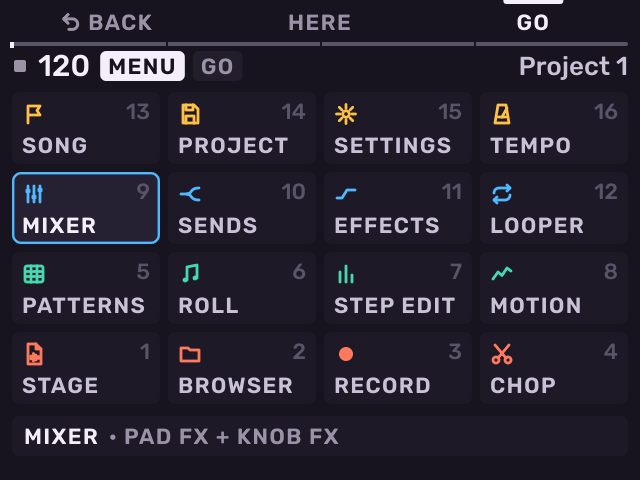
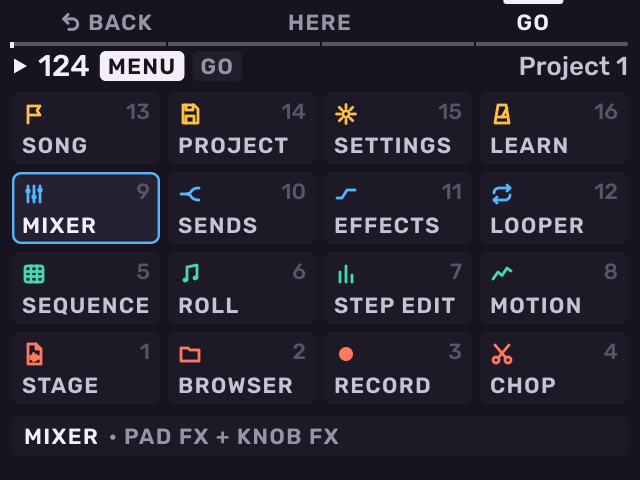
fix(melodee): the MENU's pad 5 reads SEQUENCE: SEQUENCES was wider than the tile's label and was cut, and the page previews failed on it

diff --git a/tests/melodee.cpp b/tests/melodee.cpp
@@ -2458,7 +2458,7 @@ void button_remap() {
         CHECK(encoder_tick(e, 2000 + menu_hold_ms) && !encoder_tick(e, 9000)); // held: the MENU, once
         CHECK(!encoder_release(e) && !encoder_release(e)); // its release is no tap
         CHECK(menu_tile_of(PageId::Tracks) == 8 && menu_tile_of(PageId::Scenes) == 4 && menu_tile_of(PageId::Master) == 10 && menu_tile_of(PageId::Edit) == 0);
-        CHECK(menu_tile_of(PageId::Patterns) == 4 && menu_places()[4].page == PageId::Scenes && std::string(menu_places()[4].name) == "SEQUENCES"); // Seq's home
+        CHECK(menu_tile_of(PageId::Patterns) == 4 && menu_places()[4].page == PageId::Scenes && std::string(menu_places()[4].name) == "SEQUENCE"); // Seq's home
         CHECK(menu_tile_turn(12, 1) == 13 && menu_tile_turn(15, 1) == 8 && menu_tile_turn(8, -1) == 15); // across a row, then the row below
         CHECK(menu_tile_turn(12, -1) == 12 && menu_tile_turn(3, 1) == 3 && menu_tile_turn(12, 15) == 3); // clamped at both ends
         std::array<MenuItem, menu_here_max> items {};

diff --git a/src/melodee/shell/menu.h b/src/melodee/shell/menu.h
@@ -50,7 +50,7 @@ inline const std::array<MenuPlace, 16>& menu_places() {
     static const std::array<MenuPlace, 16> places {{
         {"STAGE", "SAMPLE", 0, PageId::Stage}, {"BROWSER", "SAMPLE SELECT", 0, PageId::Samples},
         {"RECORD", "SAMPLE RECORD", 0, PageId::Record}, {"CHOP", "CHOP", 0, PageId::Chop},
-        {"SEQUENCES", "SEQ", 1, PageId::Scenes}, {"ROLL", "SEQ, B2", 1, PageId::Roll},
+        {"SEQUENCE", "SEQ", 1, PageId::Scenes}, {"ROLL", "SEQ, B2", 1, PageId::Roll}, // SEQUENCES is wider than a tile's label at the text floor
         {"STEP EDIT", "SHIFT + SEQ", 1, PageId::StepEdit}, {"MOTION", "SEQ, B3", 1, PageId::Motion},
         {"MIXER", "PAD FX + KNOB FX", 2, PageId::Tracks}, {"SENDS", "PAD FX + KNOB FX, B2", 2, PageId::Sends},
         {"EFFECTS", "SHIFT + KNOB FX", 2, PageId::Rack}, {"LOOPER", "LOOP + 16 LEVELS", 2, PageId::Looper},

diff --git a/docs/guide/basics.md b/docs/guide/basics.md
@@ -81,7 +81,7 @@ the lit place opens without the Menu.
 | 2 | Browser | 10 | Sends |
 | 3 | Record | 11 | Effects |
 | 4 | Chop | 12 | Looper |
-| 5 | Sequences | 13 | Song |
+| 5 | Sequence | 13 | Song |
 | 6 | Roll | 14 | Project |
 | 7 | Step Edit | 15 | Settings |
 | 8 | Motion | 16 | Learn |
